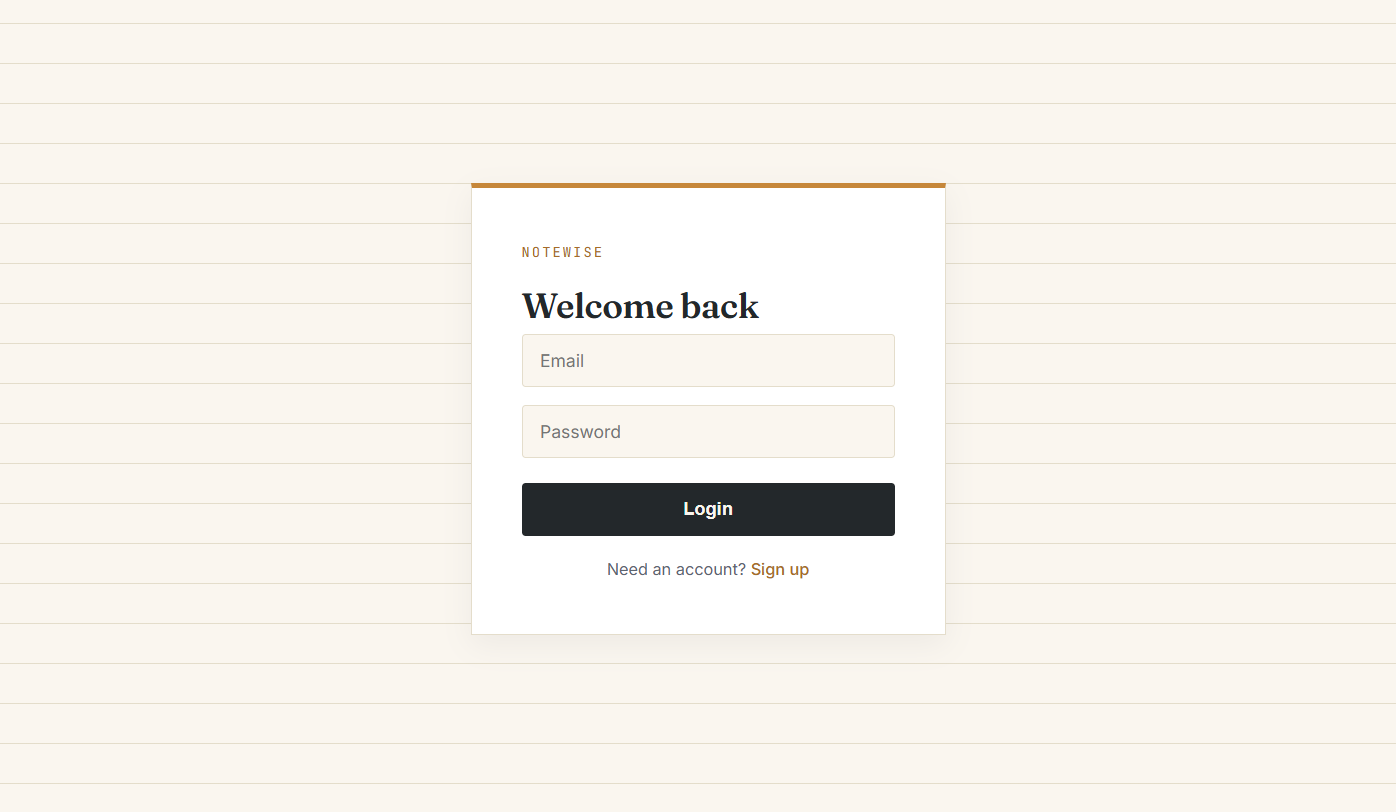
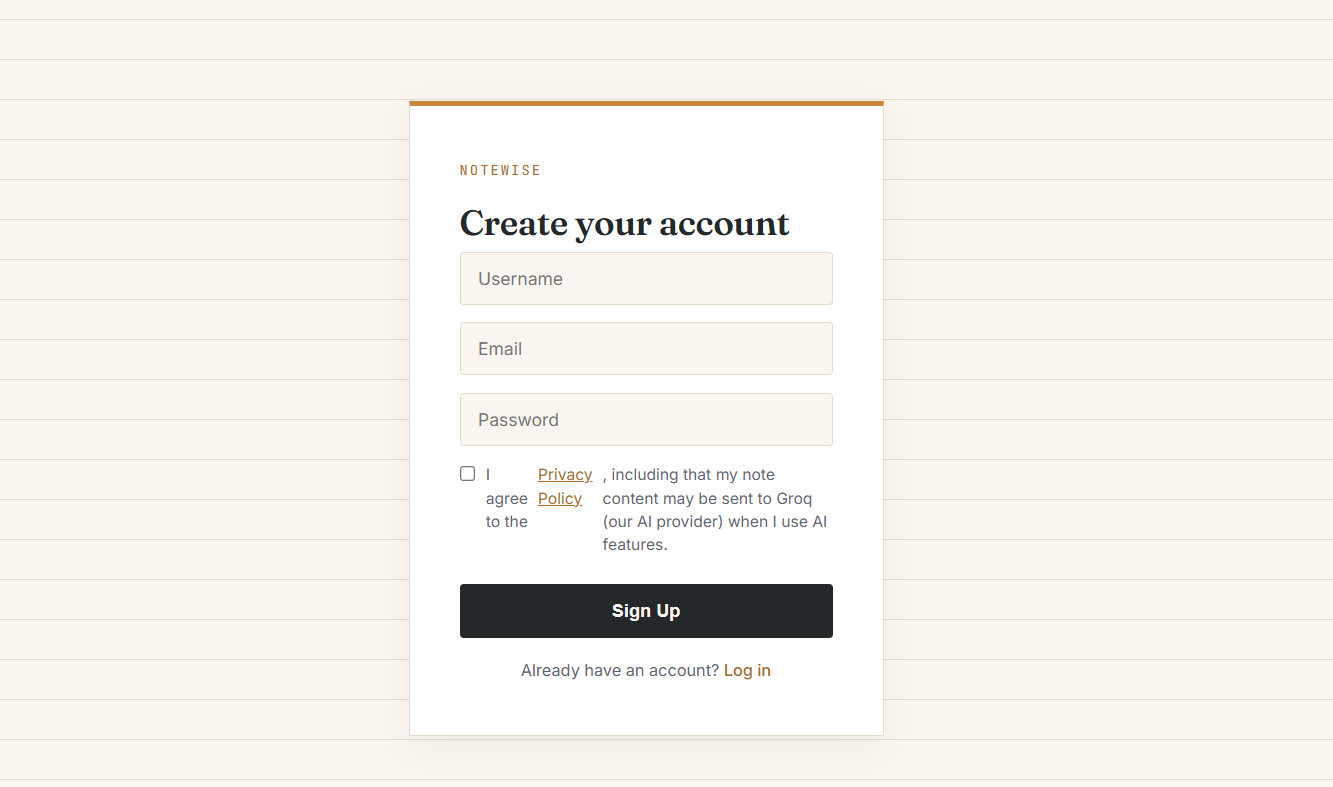
Add screenshot images to README

diff --git a/templates/archive.html b/templates/archive.html
@@ -58,19 +58,6 @@
                 <svg width="17" height="17" viewBox="0 0 24 24" fill="none" stroke="currentColor" stroke-width="2" stroke-linecap="round" stroke-linejoin="round"><path d="M21 12.79A9 9 0 1 1 11.21 3 7 7 0 0 0 21 12.79z"></path></svg>
                 Toggle theme
             </button>
-            <div class="theme-picker-wrap">
-                <button type="button" class="sidebar-link sidebar-link-btn" onclick="document.getElementById('themePopover').classList.toggle('open')">
-                    <svg width="17" height="17" viewBox="0 0 24 24" fill="none" stroke="currentColor" stroke-width="2" stroke-linecap="round" stroke-linejoin="round"><path d="M12 2C6.48 2 2 6.48 2 12s4.48 10 10 10c1.1 0 2-.9 2-2 0-.52-.2-.99-.52-1.34-.32-.36-.52-.83-.52-1.35 0-1.1.9-2 2-2h2.36c2.02 0 3.66-1.64 3.66-3.66C21 6.79 17.03 2 12 2z"></path><circle cx="6.5" cy="11.5" r="1.5" fill="currentColor"></circle><circle cx="9.5" cy="7.5" r="1.5" fill="currentColor"></circle><circle cx="14.5" cy="7.5" r="1.5" fill="currentColor"></circle><circle cx="17.5" cy="11.5" r="1.5" fill="currentColor"></circle></svg>
-                    Themes
-                </button>
-                <div id="themePopover" class="theme-popover">
-                    <button type="button" class="theme-swatch swatch-ocean" onclick="setTheme('ocean')" title="Ocean"></button>
-                    <button type="button" class="theme-swatch swatch-berry" onclick="setTheme('berry')" title="Berry"></button>
-                    <button type="button" class="theme-swatch swatch-forest" onclick="setTheme('forest')" title="Forest"></button>
-                    <button type="button" class="theme-swatch swatch-sunset" onclick="setTheme('sunset')" title="Sunset"></button>
-                    <button type="button" class="theme-swatch swatch-playful" onclick="setTheme('playful')" title="Playful"></button>
-                </div>
-            </div>
             <a href="{{ url_for('logout') }}" class="sidebar-link">
                 <svg width="17" height="17" viewBox="0 0 24 24" fill="none" stroke="currentColor" stroke-width="2" stroke-linecap="round" stroke-linejoin="round"><path d="M9 21H5a2 2 0 0 1-2-2V5a2 2 0 0 1 2-2h4"></path><polyline points="16 17 21 12 16 7"></polyline><line x1="21" y1="12" x2="9" y2="12"></line></svg>
                 Logout
@@ -94,6 +81,7 @@
                 <div class="note-card-color card-c{{ loop.index0 % 5 }}">
                     <div class="note-menu">
                         <form method="POST" action="{{ url_for('archive_note', note_id=note.id) }}">
+                            <input type="hidden" name="csrf_token" value="{{ csrf_token() }}">
                             <button type="submit" title="Unarchive">
                                 <svg width="13" height="13" viewBox="0 0 24 24" fill="none" stroke="currentColor" stroke-width="2" stroke-linecap="round" stroke-linejoin="round"><polyline points="17 11 12 6 7 11"></polyline><line x1="12" y1="6" x2="12" y2="18"></line></svg>
                             </button>

diff --git a/templates/index.html b/templates/index.html
@@ -130,6 +130,7 @@
                 <div class="note-card-color card-c{{ loop.index0 % 5 }}">
                     <div class="note-menu">
                         <form method="POST" action="{{ url_for('toggle_favorite', note_id=note.id) }}">
+                            <input type="hidden" name="csrf_token" value="{{ csrf_token() }}">
                             <button type="submit" title="Favorite">
                                 <svg width="13" height="13" viewBox="0 0 24 24" fill="{{ 'currentColor' if note.is_favorite else 'none' }}" stroke="currentColor" stroke-width="2" stroke-linecap="round" stroke-linejoin="round"><polygon points="12 2 15.09 8.26 22 9.27 17 14.14 18.18 21.02 12 17.77 5.82 21.02 7 14.14 2 9.27 8.91 8.26 12 2"></polygon></svg>
                             </button>
@@ -138,11 +139,13 @@
                             <svg width="13" height="13" viewBox="0 0 24 24" fill="none" stroke="currentColor" stroke-width="2" stroke-linecap="round" stroke-linejoin="round"><path d="M11 4H4a2 2 0 0 0-2 2v14a2 2 0 0 0 2 2h14a2 2 0 0 0 2-2v-7"></path><path d="M18.5 2.5a2.121 2.121 0 0 1 3 3L12 15l-4 1 1-4 9.5-9.5z"></path></svg>
                         </a>
                         <form method="POST" action="{{ url_for('archive_note', note_id=note.id) }}">
+                            <input type="hidden" name="csrf_token" value="{{ csrf_token() }}">
                             <button type="submit" title="Archive">
                                 <svg width="13" height="13" viewBox="0 0 24 24" fill="none" stroke="currentColor" stroke-width="2" stroke-linecap="round" stroke-linejoin="round"><polyline points="21 8 21 21 3 21 3 8"></polyline><rect x="1" y="3" width="22" height="5"></rect></svg>
                             </button>
                         </form>
                         <form method="POST" action="{{ url_for('delete_note', note_id=note.id) }}">
+                            <input type="hidden" name="csrf_token" value="{{ csrf_token() }}">
                             <button type="submit" title="Delete">
                                 <svg width="13" height="13" viewBox="0 0 24 24" fill="none" stroke="currentColor" stroke-width="2" stroke-linecap="round" stroke-linejoin="round"><polyline points="3 6 5 6 21 6"></polyline><path d="M19 6l-1 14a2 2 0 0 1-2 2H8a2 2 0 0 1-2-2L5 6"></path><path d="M10 11v6M14 11v6"></path></svg>
                             </button>

diff --git a/templates/calendar.html b/templates/calendar.html
@@ -58,19 +58,6 @@
                 <svg width="17" height="17" viewBox="0 0 24 24" fill="none" stroke="currentColor" stroke-width="2" stroke-linecap="round" stroke-linejoin="round"><path d="M21 12.79A9 9 0 1 1 11.21 3 7 7 0 0 0 21 12.79z"></path></svg>
                 Toggle theme
             </button>
-            <div class="theme-picker-wrap">
-                <button type="button" class="sidebar-link sidebar-link-btn" onclick="document.getElementById('themePopover').classList.toggle('open')">
-                    <svg width="17" height="17" viewBox="0 0 24 24" fill="none" stroke="currentColor" stroke-width="2" stroke-linecap="round" stroke-linejoin="round"><path d="M12 2C6.48 2 2 6.48 2 12s4.48 10 10 10c1.1 0 2-.9 2-2 0-.52-.2-.99-.52-1.34-.32-.36-.52-.83-.52-1.35 0-1.1.9-2 2-2h2.36c2.02 0 3.66-1.64 3.66-3.66C21 6.79 17.03 2 12 2z"></path><circle cx="6.5" cy="11.5" r="1.5" fill="currentColor"></circle><circle cx="9.5" cy="7.5" r="1.5" fill="currentColor"></circle><circle cx="14.5" cy="7.5" r="1.5" fill="currentColor"></circle><circle cx="17.5" cy="11.5" r="1.5" fill="currentColor"></circle></svg>
-                    Themes
-                </button>
-                <div id="themePopover" class="theme-popover">
-                    <button type="button" class="theme-swatch swatch-ocean" onclick="setTheme('ocean')" title="Ocean"></button>
-                    <button type="button" class="theme-swatch swatch-berry" onclick="setTheme('berry')" title="Berry"></button>
-                    <button type="button" class="theme-swatch swatch-forest" onclick="setTheme('forest')" title="Forest"></button>
-                    <button type="button" class="theme-swatch swatch-sunset" onclick="setTheme('sunset')" title="Sunset"></button>
-                    <button type="button" class="theme-swatch swatch-playful" onclick="setTheme('playful')" title="Playful"></button>
-                </div>
-            </div>
             <a href="{{ url_for('logout') }}" class="sidebar-link">
                 <svg width="17" height="17" viewBox="0 0 24 24" fill="none" stroke="currentColor" stroke-width="2" stroke-linecap="round" stroke-linejoin="round"><path d="M9 21H5a2 2 0 0 1-2-2V5a2 2 0 0 1 2-2h4"></path><polyline points="16 17 21 12 16 7"></polyline><line x1="21" y1="12" x2="9" y2="12"></line></svg>
                 Logout

diff --git a/templates/chat.html b/templates/chat.html
@@ -34,6 +34,18 @@
                 <svg width="17" height="17" viewBox="0 0 24 24" fill="none" stroke="currentColor" stroke-width="2" stroke-linecap="round" stroke-linejoin="round"><polygon points="12 2 15.09 8.26 22 9.27 17 14.14 18.18 21.02 12 17.77 5.82 21.02 7 14.14 2 9.27 8.91 8.26 12 2"></polygon></svg>
                 Favorites
             </a>
+            <a href="{{ url_for('calendar_view') }}" class="sidebar-link">
+                <svg width="17" height="17" viewBox="0 0 24 24" fill="none" stroke="currentColor" stroke-width="2" stroke-linecap="round" stroke-linejoin="round"><rect x="3" y="4" width="18" height="18" rx="2"></rect><line x1="16" y1="2" x2="16" y2="6"></line><line x1="8" y1="2" x2="8" y2="6"></line><line x1="3" y1="10" x2="21" y2="10"></line></svg>
+                Calendar
+            </a>
+            <a href="{{ url_for('archive') }}" class="sidebar-link">
+                <svg width="17" height="17" viewBox="0 0 24 24" fill="none" stroke="currentColor" stroke-width="2" stroke-linecap="round" stroke-linejoin="round"><polyline points="21 8 21 21 3 21 3 8"></polyline><rect x="1" y="3" width="22" height="5"></rect><line x1="10" y1="12" x2="14" y2="12"></line></svg>
+                Archive
+            </a>
+            <a href="{{ url_for('trash') }}" class="sidebar-link">
+                <svg width="17" height="17" viewBox="0 0 24 24" fill="none" stroke="currentColor" stroke-width="2" stroke-linecap="round" stroke-linejoin="round"><polyline points="3 6 5 6 21 6"></polyline><path d="M19 6l-1 14a2 2 0 0 1-2 2H8a2 2 0 0 1-2-2L5 6"></path></svg>
+                Trash
+            </a>
             <a href="{{ url_for('chat') }}" class="sidebar-link active">
                 <svg width="17" height="17" viewBox="0 0 24 24" fill="none" stroke="currentColor" stroke-width="2" stroke-linecap="round" stroke-linejoin="round"><rect x="4" y="7" width="16" height="12" rx="3"></rect><circle cx="9" cy="13" r="1.3" fill="currentColor" stroke="none"></circle><circle cx="15" cy="13" r="1.3" fill="currentColor" stroke="none"></circle><path d="M12 7V4"></path><circle cx="12" cy="3" r="1" fill="currentColor" stroke="none"></circle></svg>
                 AI Chat

diff --git a/templates/note_form.html b/templates/note_form.html
@@ -30,24 +30,6 @@
             <a href="{{ url_for('dashboard') }}">Cancel</a>
         </div>
     </form>
-
-    {% if note %}
-    <div class="note-ai-tools">
-        <form method="POST" action="{{ url_for('summarize_note', note_id=note.id) }}">
-            <input type="hidden" name="csrf_token" value="{{ csrf_token() }}">
-            <button type="submit" class="btn btn-primary" style="background: var(--spine-dark);"> 
-                <svg width="14" height="14" viewBox="0 0 24 24" fill="none" stroke="currentColor" stroke-width="2" stroke-linecap="round" stroke-linejoin="round" style="vertical-align: middle; margin-right: 4px;"><path d="M12 2v4M12 18v4M4.93 4.93l2.83 2.83M16.24 16.24l2.83 2.83M2 12h4M18 12h4M4.93 19.07l2.83-2.83M16.24 7.76l2.83-2.83"></path></svg>
-                Summarize this note
-            </button>
-        </form>
-
-        <form method="POST" action="{{ url_for('ask_about_note', note_id=note.id) }}" class="ask-ai-form">
-            <input type="hidden" name="csrf_token" value="{{ csrf_token() }}">
-            <input type="text" name="question" placeholder="Ask AI about this note..." required>
-            <button type="submit" class="btn btn-primary">Ask</button>
-        </form>
-    </div>
-    {% endif %}
 </div>
 </body>
 </html>

diff --git a/README.md b/README.md
@@ -12,10 +12,13 @@ Note: This app is hosted on Render's free tier. The first visit may take 30–60
 ## Features
 
 - **User Authentication** — Secure signup/login with password hashing (Werkzeug)
+- **CSRF Protection** — All forms protected with CSRF tokens using Flask-WTF
 - **Notes CRUD** — Create, edit, and delete personal notes, scoped per user
-- **Search** — Real-time filtering of notes by title or content
-- **AI Summarization** — One-click note summarization powered by Groq's LLM API (Llama 3.3 70B)
-- **Clean, custom UI** — Notebook/stationery-themed design, no UI framework
+- **Note Organization** — Archive notes, view in calendar, or move to trash
+- **Search & Filter** — Real-time filtering by title, content, or favorites
+- **AI Chat** — Conversational AI assistant powered by Groq's Llama 3.3 70B that helps with notes, code, and general questions
+- **Favorites** — Mark important notes as favorites for quick access
+- **Clean, custom UI** — Notebook/stationery-themed design, dark/light theme toggle
 - **User Profiles** — Update your username and email anytime
 - **Landing Page** — Animated introduction before signup
 
@@ -31,11 +34,20 @@ Note: This app is hosted on Render's free tier. The first visit may take 30–60
 
 ## Screenshots
 
-### Login
+### Login - Secure authentication
 ![Login](static/images/screenshot-login.png)
 
-### AI Summarization in action
-![AI Summary](static/images/screenshot-summary.png)
+### Dashboard - View and manage all your notes
+![Dashboard](static/images/screenshot-dashboard.png)
+
+### AI Chat - Natural conversation with your AI assistant
+![AI Chat](static/images/screenshot-chat.png)
+
+### Note Editor - Simple and clean note editing
+![Note Editor](static/images/screenshot-note-editor.png)
+
+### Archive & Calendar - Organize your notes
+![Archive](static/images/screenshot-archive.png)
 
 ## Getting Started
 
@@ -78,18 +90,35 @@ python app.py
 
 ## Database Schema
 
-**User** — id, username, email, password_hash, created_at
+**User** — id, username, email, password_hash, created_at, updated_at
 
-**Note** — id, title, content, created_at, updated_at, user_id (FK → User)
+**Note** — id, title, content, created_at, updated_at, user_id (FK → User), is_favorite, is_archived, is_deleted
+
+**ChatHistory** — id, user_id (FK → User), role, content, created_at
 
 ## What I Learned Building This
 
-- Structuring a Flask app with separation of routes, models, and config
-- Implementing secure authentication with password hashing and session management (Flask-Login)
-- Integrating a third-party LLM API into a live application, with error handling for API failures
+- Smplementing CSRF protection for all forms using Flask-WTF
+- Integrating a third-party LLM API into a live application with natural conversational UI
+- Building an interactive AI chat that understands context and user needs
+- Writing scoped database queries to ensure users can only access their own data
+- Designing a conversational AI that feels helpful and natural, not robotic
+- Iterative UI design — moving from a generic template look to a deliberate, custom theme
+- Implementing soft deletes (archiving/trash) for better data managementfailures
 - Writing scoped database queries to ensure users can only access their own data
 - Iterative UI design — moving from a generic template look to a deliberate, custom theme
 
+- [x] User authentication & authorization
+- [x] CRUD operations for notes
+- [x] AI-powered chat assistant
+- [x] CSRF protection for all forms
+- [x] Archive and trash system
+- [x] Calendar view for notes
+- [x] Dark/light theme toggle
+- [ ] Collaborative note sharing
+- [ ] Real-time sync across devices
+- [ ] Export notes (PDF, Markdown)
+- [ ] Note tags and categorie
 
 
 ## Roadmap
